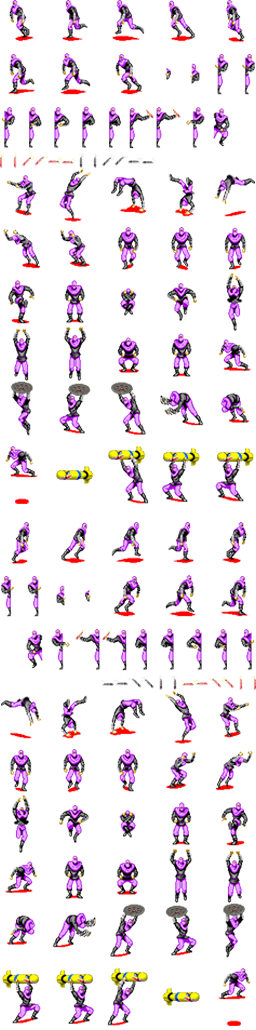
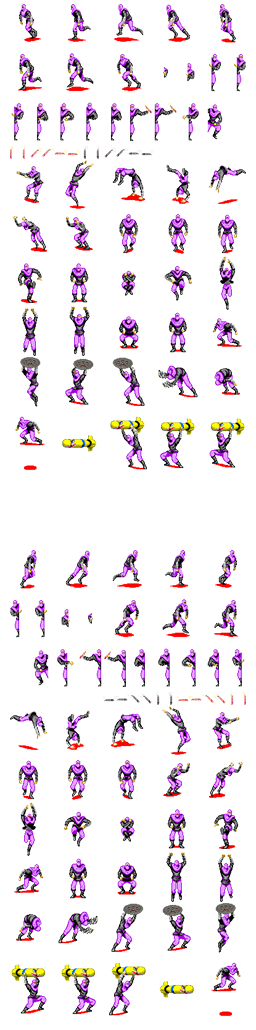
enemy purple endavant i enrere

Changed region(s): [[0.0, 0.0, 1.0, 1.0]]

diff --git a/Project_7_Solution/Source/Enemy_Purple.cpp b/Project_7_Solution/Source/Enemy_Purple.cpp
@@ -5,20 +5,25 @@
 
 Enemy_Purple::Enemy_Purple(int x, int y) : Enemy(x, y)
 {
-	front.PushBack({ 7, 21, 34, 42 });
-	front.PushBack({ 53, 20, 37, 43 });
-	front.PushBack({ 99, 19, 45, 48 });
-	front.PushBack({ 151, 19, 43, 49 });
-	front.PushBack({ 203, 20, 36, 48 });
-	front.PushBack({ 6, 69, 35, 44 });
-	front.PushBack({ 49, 70, 44, 44 });
-	front.PushBack({ 103, 69, 40, 45 });
+	front.PushBack({ 10, 1, 40, 46 });
+	front.PushBack({ 56, 1, 40, 46 });
+	front.PushBack({ 108, 1, 40, 46 });
+	front.PushBack({ 161, 1, 40, 46 });
+	front.PushBack({ 214, 1, 40, 46 });
+	front.PushBack({ 12, 50, 40, 46 });
+	front.PushBack({ 60, 50, 40, 46 });
+	front.PushBack({ 112, 50, 40, 46 });
 	front.speed = 0.1f;
 	//front.pingpong = true;
 
-	back.PushBack({ 170, 108, 31, 29 });
-	back.PushBack({ 170, 141, 31, 29 });
-	back.PushBack({ 137, 108, 31, 29 });
+	back.PushBack({ 213, 546, 40, 46 });
+	back.PushBack({ 163, 546, 40, 46 });
+	back.PushBack({ 111, 546, 40, 46 });
+	back.PushBack({ 62, 546, 40, 46 });
+	back.PushBack({ 18, 546, 40, 46 });
+	back.PushBack({ 211, 596, 40, 46 });
+	back.PushBack({ 160, 596, 40, 46 });
+	back.PushBack({ 112, 596, 40, 46 });
 	back.speed = 0.1f;
 	//back.pingpong = true;
 
